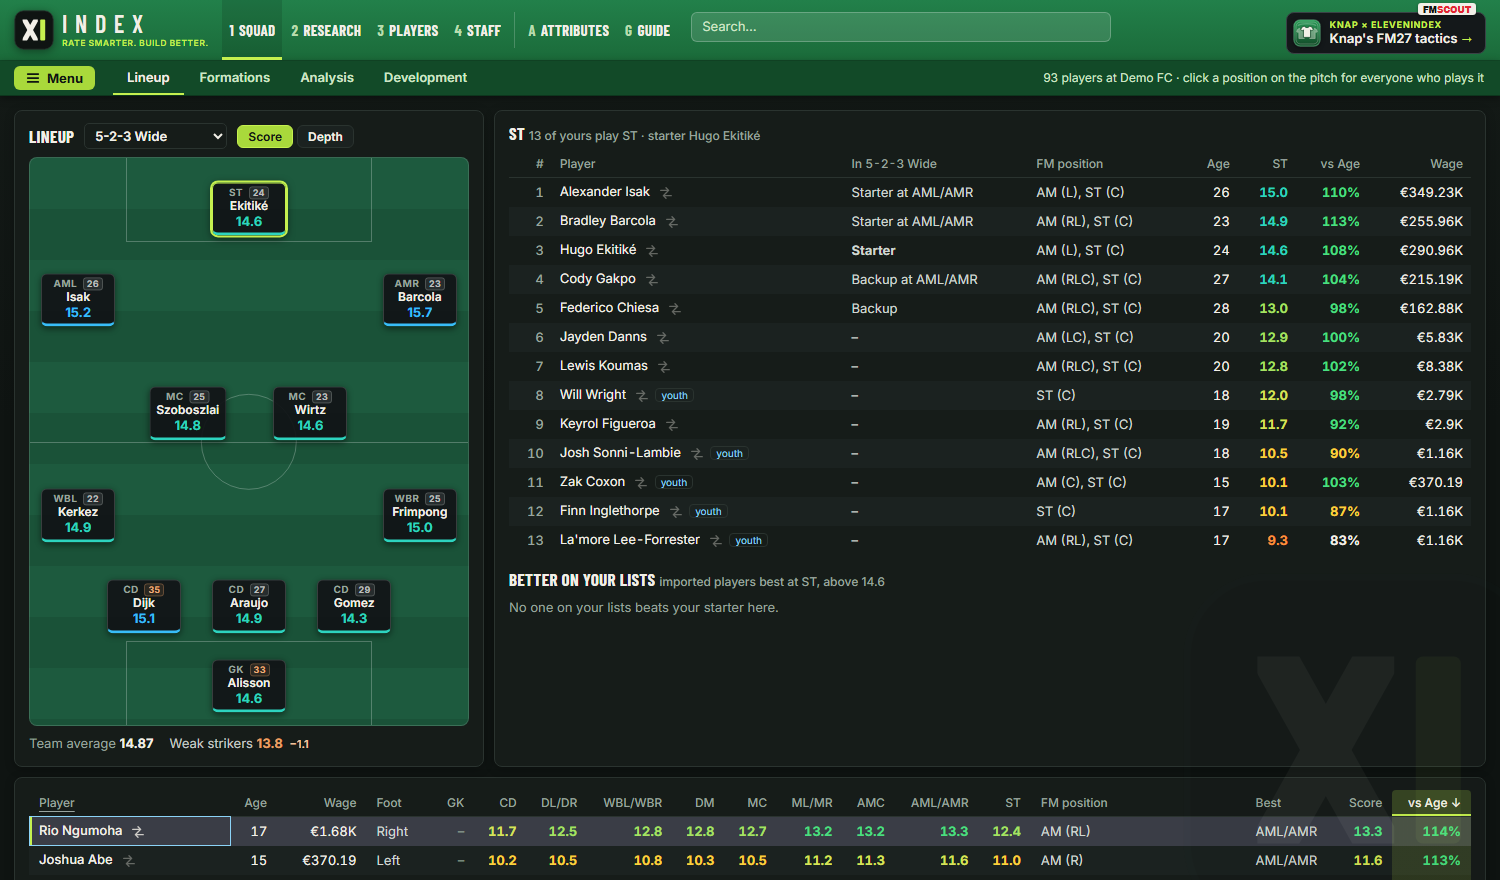
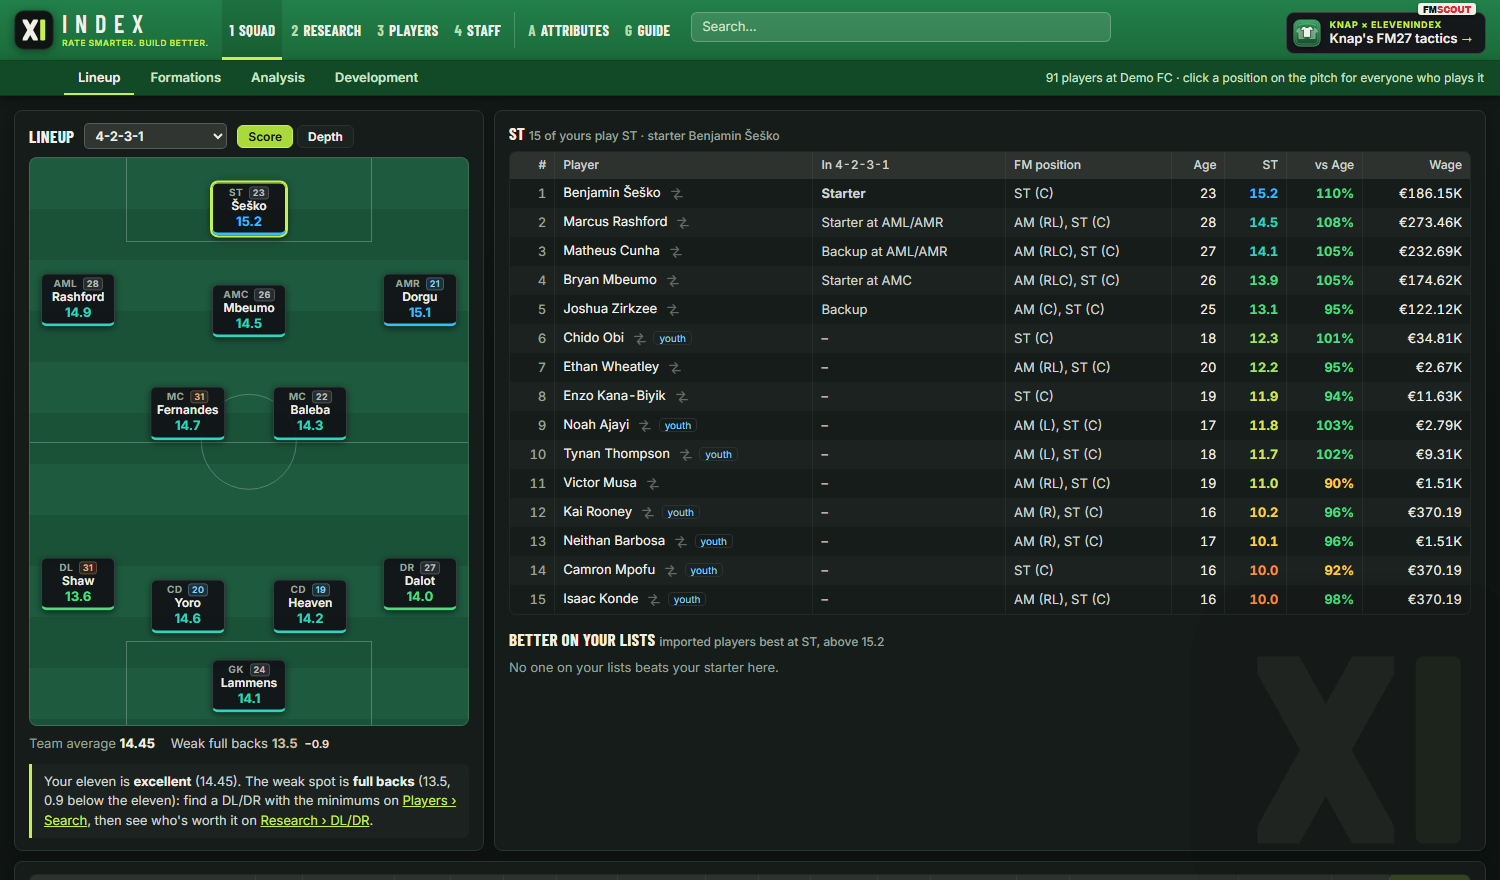
README screenshots: today's pages, and FM-style profile attributes
- Every screenshot redone from a demo save (Demo FC) with the current pages.
- The last row has two: a profile's Attributes tab, laid out like FM's, beside the attribute weights.
- Analysis caption: the Squad plan.

diff --git a/README.md b/README.md
@@ -41,7 +41,7 @@
     <td valign="top"><img src="docs/screenshots/research.png" alt="Research"><br><sub><b>Research</b>: your best at each position against everyone you've scouted</sub></td>
   </tr>
   <tr>
-    <td valign="top"><img src="docs/screenshots/analysis.png" alt="Analysis"><br><sub><b>Analysis</b>: your team position by position, with recommendations: ageing starters, backups, youngsters</sub></td>
+    <td valign="top"><img src="docs/screenshots/analysis.png" alt="Analysis"><br><sub><b>Analysis</b>: your team position by position, and a Squad plan: what to do, most urgent first</sub></td>
     <td valign="top"><img src="docs/screenshots/development.png" alt="Development"><br><sub><b>Development</b>: how your players changed between two squad exports</sub></td>
   </tr>
   <tr>
@@ -49,7 +49,8 @@
     <td valign="top"><img src="docs/screenshots/staff.png" alt="Staff"><br><sub><b>Staff</b>: every staff member scored for every job</sub></td>
   </tr>
   <tr>
-    <td colspan="2" align="center" valign="top"><img src="docs/screenshots/attributes.png" width="50%" alt="Attributes"><br><sub><b>Attributes</b>: one weight per attribute (1–20) for every save, to tune the scoring your way</sub></td>
+    <td valign="top"><img src="docs/screenshots/profile-attributes.png" alt="A player's attributes, like FM's"><br><sub><b>Attributes in a profile</b>: laid out like FM's, with the Key and Preferable ones at any position</sub></td>
+    <td valign="top"><img src="docs/screenshots/attributes.png" alt="Attributes"><br><sub><b>Attribute weights</b>: one weight per attribute (1–20) for every save, to tune the scoring your way</sub></td>
   </tr>
 </table>
 
